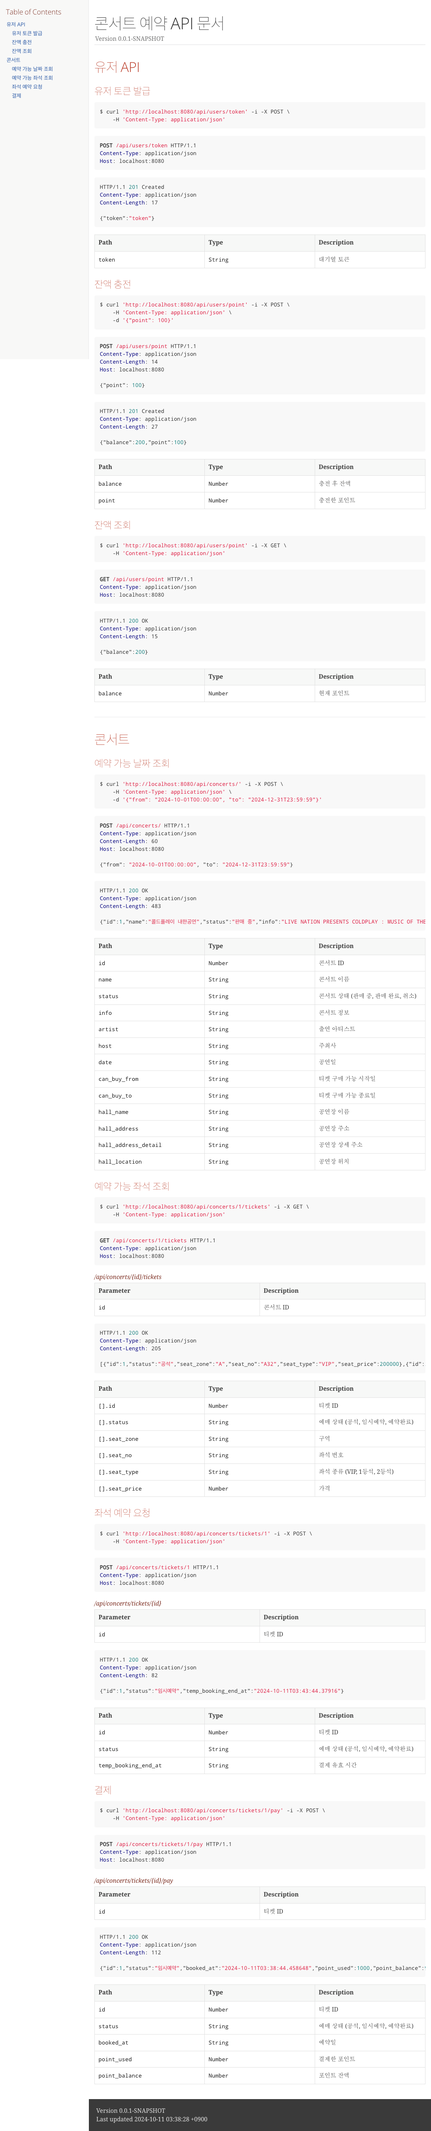
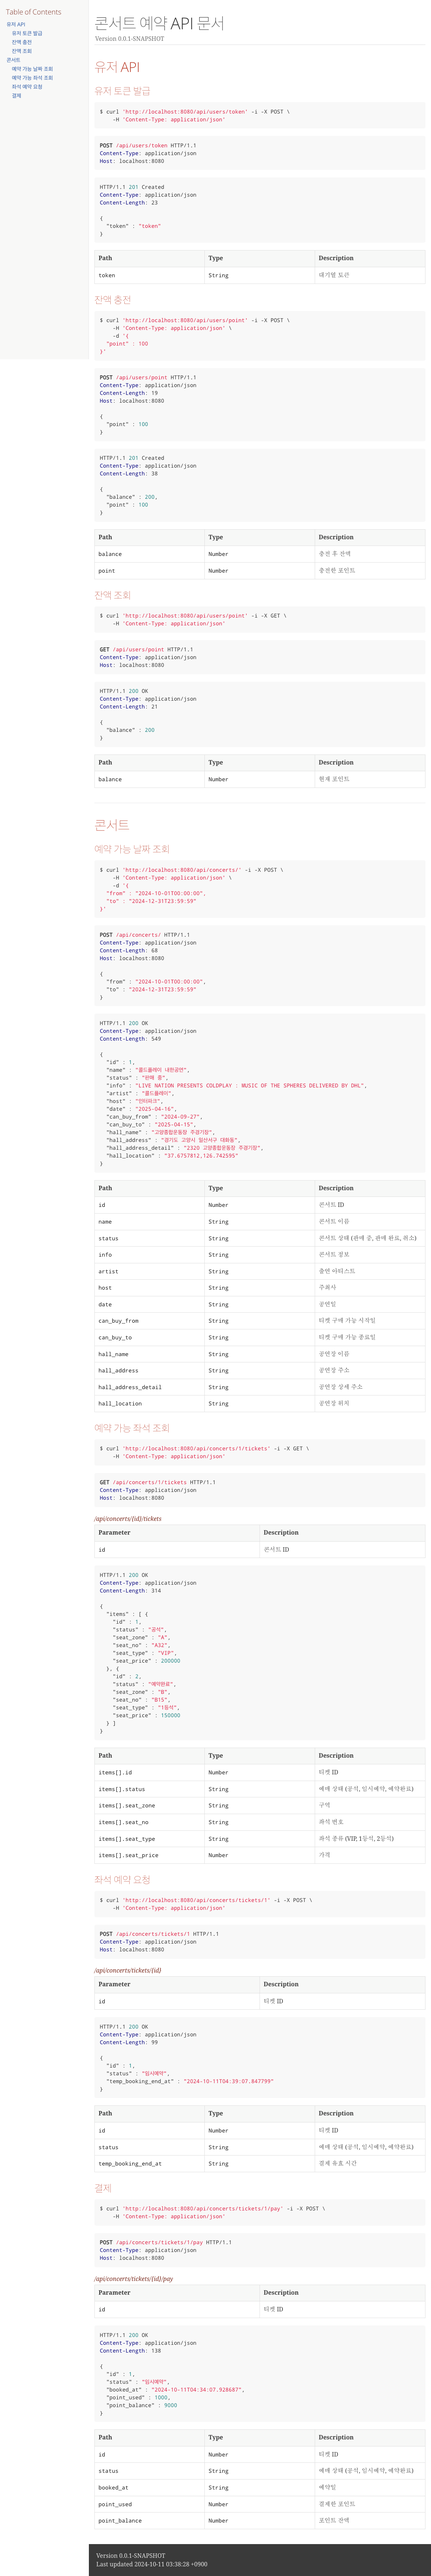
refactoring - 컨트롤러의 DTO 패키지 분리 - Rest DOCs 요청, 응답 prettier 적용

diff --git a/src/main/resources/static/docs/index.html b/src/main/resources/static/docs/index.html
@@ -487,9 +487,11 @@ Host: localhost:8080</code></pre>
 <div class="content">
 <pre class="highlightjs highlight nowrap"><code data-lang="http" class="language-http hljs">HTTP/1.1 201 Created
 Content-Type: application/json
-Content-Length: 17
+Content-Length: 23
 
-{"token":"token"}</code></pre>
+{
+  "token" : "token"
+}</code></pre>
 </div>
 </div>
 <table class="tableblock frame-all grid-all stretch">
@@ -520,26 +522,33 @@ Content-Length: 17
 <div class="content">
 <pre class="highlightjs highlight"><code data-lang="bash" class="language-bash hljs">$ curl 'http://localhost:8080/api/users/point' -i -X POST \
     -H 'Content-Type: application/json' \
-    -d '{"point": 100}'</code></pre>
+    -d '{
+  "point" : 100
+}'</code></pre>
 </div>
 </div>
 <div class="listingblock">
 <div class="content">
 <pre class="highlightjs highlight nowrap"><code data-lang="http" class="language-http hljs">POST /api/users/point HTTP/1.1
 Content-Type: application/json
-Content-Length: 14
+Content-Length: 19
 Host: localhost:8080
 
-{"point": 100}</code></pre>
+{
+  "point" : 100
+}</code></pre>
 </div>
 </div>
 <div class="listingblock">
 <div class="content">
 <pre class="highlightjs highlight nowrap"><code data-lang="http" class="language-http hljs">HTTP/1.1 201 Created
 Content-Type: application/json
-Content-Length: 27
+Content-Length: 38
 
-{"balance":200,"point":100}</code></pre>
+{
+  "balance" : 200,
+  "point" : 100
+}</code></pre>
 </div>
 </div>
 <table class="tableblock frame-all grid-all stretch">
@@ -588,9 +597,11 @@ Host: localhost:8080</code></pre>
 <div class="content">
 <pre class="highlightjs highlight nowrap"><code data-lang="http" class="language-http hljs">HTTP/1.1 200 OK
 Content-Type: application/json
-Content-Length: 15
+Content-Length: 21
 
-{"balance":200}</code></pre>
+{
+  "balance" : 200
+}</code></pre>
 </div>
 </div>
 <table class="tableblock frame-all grid-all stretch">
@@ -626,26 +637,46 @@ Content-Length: 15
 <div class="content">
 <pre class="highlightjs highlight"><code data-lang="bash" class="language-bash hljs">$ curl 'http://localhost:8080/api/concerts/' -i -X POST \
     -H 'Content-Type: application/json' \
-    -d '{"from": "2024-10-01T00:00:00", "to": "2024-12-31T23:59:59"}'</code></pre>
+    -d '{
+  "from" : "2024-10-01T00:00:00",
+  "to" : "2024-12-31T23:59:59"
+}'</code></pre>
 </div>
 </div>
 <div class="listingblock">
 <div class="content">
 <pre class="highlightjs highlight nowrap"><code data-lang="http" class="language-http hljs">POST /api/concerts/ HTTP/1.1
 Content-Type: application/json
-Content-Length: 60
+Content-Length: 68
 Host: localhost:8080
 
-{"from": "2024-10-01T00:00:00", "to": "2024-12-31T23:59:59"}</code></pre>
+{
+  "from" : "2024-10-01T00:00:00",
+  "to" : "2024-12-31T23:59:59"
+}</code></pre>
 </div>
 </div>
 <div class="listingblock">
 <div class="content">
 <pre class="highlightjs highlight nowrap"><code data-lang="http" class="language-http hljs">HTTP/1.1 200 OK
 Content-Type: application/json
-Content-Length: 483
+Content-Length: 549
 
-{"id":1,"name":"콜드플레이 내한공연","status":"판매 중","info":"LIVE NATION PRESENTS COLDPLAY : MUSIC OF THE SPHERES DELIVERED BY DHL","artist":"콜드플레이","host":"인터파크","date":"2025-04-16","can_buy_from":"2024-09-27","can_buy_to":"2025-04-15","hall_name":"고양종합운동장 주경기장","hall_address":"경기도 고양시 일산서구 대화동","hall_address_detail":"2320 고양종합운동장 주경기장","hall_location":"37.6757812,126.742595"}</code></pre>
+{
+  "id" : 1,
+  "name" : "콜드플레이 내한공연",
+  "status" : "판매 중",
+  "info" : "LIVE NATION PRESENTS COLDPLAY : MUSIC OF THE SPHERES DELIVERED BY DHL",
+  "artist" : "콜드플레이",
+  "host" : "인터파크",
+  "date" : "2025-04-16",
+  "can_buy_from" : "2024-09-27",
+  "can_buy_to" : "2025-04-15",
+  "hall_name" : "고양종합운동장 주경기장",
+  "hall_address" : "경기도 고양시 일산서구 대화동",
+  "hall_address_detail" : "2320 고양종합운동장 주경기장",
+  "hall_location" : "37.6757812,126.742595"
+}</code></pre>
 </div>
 </div>
 <table class="tableblock frame-all grid-all stretch">
@@ -768,9 +799,25 @@ Host: localhost:8080</code></pre>
 <div class="content">
 <pre class="highlightjs highlight nowrap"><code data-lang="http" class="language-http hljs">HTTP/1.1 200 OK
 Content-Type: application/json
-Content-Length: 205
+Content-Length: 314
 
-[{"id":1,"status":"공석","seat_zone":"A","seat_no":"A32","seat_type":"VIP","seat_price":200000},{"id":2,"status":"예약완료","seat_zone":"B","seat_no":"B15","seat_type":"1등석","seat_price":150000}]</code></pre>
+{
+  "items" : [ {
+    "id" : 1,
+    "status" : "공석",
+    "seat_zone" : "A",
+    "seat_no" : "A32",
+    "seat_type" : "VIP",
+    "seat_price" : 200000
+  }, {
+    "id" : 2,
+    "status" : "예약완료",
+    "seat_zone" : "B",
+    "seat_no" : "B15",
+    "seat_type" : "1등석",
+    "seat_price" : 150000
+  } ]
+}</code></pre>
 </div>
 </div>
 <table class="tableblock frame-all grid-all stretch">
@@ -788,32 +835,32 @@ Content-Length: 205
 </thead>
 <tbody>
 <tr>
-<td class="tableblock halign-left valign-top"><p class="tableblock"><code>[].id</code></p></td>
+<td class="tableblock halign-left valign-top"><p class="tableblock"><code>items[].id</code></p></td>
 <td class="tableblock halign-left valign-top"><p class="tableblock"><code>Number</code></p></td>
 <td class="tableblock halign-left valign-top"><p class="tableblock">티켓 ID</p></td>
 </tr>
 <tr>
-<td class="tableblock halign-left valign-top"><p class="tableblock"><code>[].status</code></p></td>
+<td class="tableblock halign-left valign-top"><p class="tableblock"><code>items[].status</code></p></td>
 <td class="tableblock halign-left valign-top"><p class="tableblock"><code>String</code></p></td>
 <td class="tableblock halign-left valign-top"><p class="tableblock">예매 상태 (공석, 임시예약, 예약완료)</p></td>
 </tr>
 <tr>
-<td class="tableblock halign-left valign-top"><p class="tableblock"><code>[].seat_zone</code></p></td>
+<td class="tableblock halign-left valign-top"><p class="tableblock"><code>items[].seat_zone</code></p></td>
 <td class="tableblock halign-left valign-top"><p class="tableblock"><code>String</code></p></td>
 <td class="tableblock halign-left valign-top"><p class="tableblock">구역</p></td>
 </tr>
 <tr>
-<td class="tableblock halign-left valign-top"><p class="tableblock"><code>[].seat_no</code></p></td>
+<td class="tableblock halign-left valign-top"><p class="tableblock"><code>items[].seat_no</code></p></td>
 <td class="tableblock halign-left valign-top"><p class="tableblock"><code>String</code></p></td>
 <td class="tableblock halign-left valign-top"><p class="tableblock">좌석 번호</p></td>
 </tr>
 <tr>
-<td class="tableblock halign-left valign-top"><p class="tableblock"><code>[].seat_type</code></p></td>
+<td class="tableblock halign-left valign-top"><p class="tableblock"><code>items[].seat_type</code></p></td>
 <td class="tableblock halign-left valign-top"><p class="tableblock"><code>String</code></p></td>
 <td class="tableblock halign-left valign-top"><p class="tableblock">좌석 종류 (VIP, 1등석, 2등석)</p></td>
 </tr>
 <tr>
-<td class="tableblock halign-left valign-top"><p class="tableblock"><code>[].seat_price</code></p></td>
+<td class="tableblock halign-left valign-top"><p class="tableblock"><code>items[].seat_price</code></p></td>
 <td class="tableblock halign-left valign-top"><p class="tableblock"><code>Number</code></p></td>
 <td class="tableblock halign-left valign-top"><p class="tableblock">가격</p></td>
 </tr>
@@ -858,9 +905,13 @@ Host: localhost:8080</code></pre>
 <div class="content">
 <pre class="highlightjs highlight nowrap"><code data-lang="http" class="language-http hljs">HTTP/1.1 200 OK
 Content-Type: application/json
-Content-Length: 82
+Content-Length: 99
 
-{"id":1,"status":"임시예약","temp_booking_end_at":"2024-10-11T03:43:44.37916"}</code></pre>
+{
+  "id" : 1,
+  "status" : "임시예약",
+  "temp_booking_end_at" : "2024-10-11T04:39:07.847799"
+}</code></pre>
 </div>
 </div>
 <table class="tableblock frame-all grid-all stretch">
@@ -933,9 +984,15 @@ Host: localhost:8080</code></pre>
 <div class="content">
 <pre class="highlightjs highlight nowrap"><code data-lang="http" class="language-http hljs">HTTP/1.1 200 OK
 Content-Type: application/json
-Content-Length: 112
+Content-Length: 138
 
-{"id":1,"status":"임시예약","booked_at":"2024-10-11T03:38:44.458648","point_used":1000,"point_balance":9000}</code></pre>
+{
+  "id" : 1,
+  "status" : "임시예약",
+  "booked_at" : "2024-10-11T04:34:07.928687",
+  "point_used" : 1000,
+  "point_balance" : 9000
+}</code></pre>
 </div>
 </div>
 <table class="tableblock frame-all grid-all stretch">

diff --git a/src/test/java/com/chaw/concert/interfaces/api/concert/ConcertControllerTest.java b/src/test/java/com/chaw/concert/interfaces/api/concert/ConcertControllerTest.java
@@ -19,8 +19,7 @@ import org.springframework.web.context.WebApplicationContext;
 import static org.springframework.restdocs.mockmvc.MockMvcRestDocumentation.documentationConfiguration;
 import static org.springframework.restdocs.mockmvc.RestDocumentationRequestBuilders.get;
 import static org.springframework.restdocs.mockmvc.RestDocumentationRequestBuilders.post;
-import static org.springframework.restdocs.operation.preprocess.Preprocessors.preprocessRequest;
-import static org.springframework.restdocs.operation.preprocess.Preprocessors.preprocessResponse;
+import static org.springframework.restdocs.operation.preprocess.Preprocessors.*;
 import static org.springframework.restdocs.payload.PayloadDocumentation.*;
 import static org.springframework.restdocs.request.RequestDocumentation.parameterWithName;
 import static org.springframework.restdocs.request.RequestDocumentation.pathParameters;
@@ -48,8 +47,8 @@ public class ConcertControllerTest {
     public void getConcerts() throws Exception {
         RestDocumentationResultHandler documentationHandler =
                 MockMvcRestDocumentation.document("concert/get-concerts",
-                        preprocessRequest(),
-                        preprocessResponse(),
+                        preprocessRequest(prettyPrint()),
+                        preprocessResponse(prettyPrint()),
                         requestFields(
                                 fieldWithPath("from").description("공연일 시작"),
                                 fieldWithPath("to").description("공연일 끝")
@@ -83,18 +82,18 @@ public class ConcertControllerTest {
     public void getTickets() throws Exception {
         RestDocumentationResultHandler documentationHandler =
                 MockMvcRestDocumentation.document("concert/get-tickets",
-                        preprocessRequest(),
-                        preprocessResponse(),
+                        preprocessRequest(prettyPrint()),
+                        preprocessResponse(prettyPrint()),
                         pathParameters(
                                 parameterWithName("id").description("콘서트 ID")
                         ),
                         responseFields(
-                                fieldWithPath("[].id").description("티켓 ID"),
-                                fieldWithPath("[].status").description("예매 상태 (공석, 임시예약, 예약완료)"),
-                                fieldWithPath("[].seat_zone").description("구역"),
-                                fieldWithPath("[].seat_no").description("좌석 번호"),
-                                fieldWithPath("[].seat_type").description("좌석 종류 (VIP, 1등석, 2등석)"),
-                                fieldWithPath("[].seat_price").description("가격")
+                                fieldWithPath("items[].id").description("티켓 ID"),
+                                fieldWithPath("items[].status").description("예매 상태 (공석, 임시예약, 예약완료)"),
+                                fieldWithPath("items[].seat_zone").description("구역"),
+                                fieldWithPath("items[].seat_no").description("좌석 번호"),
+                                fieldWithPath("items[].seat_type").description("좌석 종류 (VIP, 1등석, 2등석)"),
+                                fieldWithPath("items[].seat_price").description("가격")
                         )
                 );
 
@@ -108,8 +107,8 @@ public class ConcertControllerTest {
     public void tempBooking() throws Exception {
         RestDocumentationResultHandler documentationHandler =
                 MockMvcRestDocumentation.document("concert/temp-booking",
-                        preprocessRequest(),
-                        preprocessResponse(),
+                        preprocessRequest(prettyPrint()),
+                        preprocessResponse(prettyPrint()),
                         pathParameters(
                                 parameterWithName("id").description("티켓 ID")
                         ),
@@ -130,8 +129,8 @@ public class ConcertControllerTest {
     public void pay() throws Exception {
         RestDocumentationResultHandler documentationHandler =
                 MockMvcRestDocumentation.document("concert/pay",
-                        preprocessRequest(),
-                        preprocessResponse(),
+                        preprocessRequest(prettyPrint()),
+                        preprocessResponse(prettyPrint()),
                         pathParameters(
                                 parameterWithName("id").description("티켓 ID")
                         ),

diff --git a/src/test/java/com/chaw/concert/interfaces/api/user/UserControllerTest.java b/src/test/java/com/chaw/concert/interfaces/api/user/UserControllerTest.java
@@ -17,8 +17,8 @@ import org.springframework.test.web.servlet.setup.MockMvcBuilders;
 import org.springframework.web.context.WebApplicationContext;
 
 import static org.springframework.restdocs.mockmvc.MockMvcRestDocumentation.documentationConfiguration;
-import static org.springframework.restdocs.operation.preprocess.Preprocessors.preprocessRequest;
-import static org.springframework.restdocs.operation.preprocess.Preprocessors.preprocessResponse;
+import static org.springframework.restdocs.operation.preprocess.Preprocessors.*;
+import static org.springframework.restdocs.operation.preprocess.Preprocessors.prettyPrint;
 import static org.springframework.restdocs.payload.PayloadDocumentation.*;
 import static org.springframework.test.web.servlet.request.MockMvcRequestBuilders.get;
 import static org.springframework.test.web.servlet.request.MockMvcRequestBuilders.post;
@@ -46,8 +46,8 @@ public class UserControllerTest {
     public void requestToken() throws Exception {
         RestDocumentationResultHandler documentationHandler =
                 MockMvcRestDocumentation.document("user/request-token",
-                        preprocessRequest(),
-                        preprocessResponse(),
+                        preprocessRequest(prettyPrint()),
+                        preprocessResponse(prettyPrint()),
                         responseFields(
                                 fieldWithPath("token").description("대기열 토큰")
                         ));
@@ -63,8 +63,8 @@ public class UserControllerTest {
     public void chargePoint() throws Exception {
         RestDocumentationResultHandler documentationHandler =
                 MockMvcRestDocumentation.document("user/charge-point",
-                        preprocessRequest(),
-                        preprocessResponse(),
+                        preprocessRequest(prettyPrint()),
+                        preprocessResponse(prettyPrint()),
                         requestFields(
                                 fieldWithPath("point").description("충전할 포인트")
                         ),
@@ -85,8 +85,8 @@ public class UserControllerTest {
     public void getPoint() throws Exception {
         RestDocumentationResultHandler documentationHandler =
                 MockMvcRestDocumentation.document("user/get-point",
-                        preprocessRequest(),
-                        preprocessResponse(),
+                        preprocessRequest(prettyPrint()),
+                        preprocessResponse(prettyPrint()),
                         responseFields(
                                 fieldWithPath("balance").description("현재 포인트")
                         ));

diff --git a/src/main/java/com/chaw/concert/interfaces/api/concert/ConcertController.java b/src/main/java/com/chaw/concert/interfaces/api/concert/ConcertController.java
@@ -33,9 +33,9 @@ public class ConcertController {
 
     @GetMapping("/{id}/tickets")
     @ResponseStatus(HttpStatus.OK)
-    public List<GetTicketsOutput> getTickets(@PathVariable Long id) {
-        return List.of(
-                GetTicketsOutput.builder()
+    public GetTicketsOutput getTickets(@PathVariable Long id) {
+        List<GetTicketsOutput.Item> items = List.of(
+                GetTicketsOutput.Item.builder()
                         .id(1L)
                         .status("공석")
                         .seat_zone("A")
@@ -43,7 +43,7 @@ public class ConcertController {
                         .seat_type("VIP")
                         .seat_price(200000)
                         .build(),
-                GetTicketsOutput.builder()
+                GetTicketsOutput.Item.builder()
                         .id(2L)
                         .status("예약완료")
                         .seat_zone("B")
@@ -52,6 +52,10 @@ public class ConcertController {
                         .seat_price(150000)
                         .build()
         );
+
+        return GetTicketsOutput.builder()
+                .items(items)
+                .build();
     }
 
     @PostMapping("/tickets/{id}")

diff --git a/src/main/java/com/chaw/concert/interfaces/api/concert/dto/GetTicketsOutput.java b/src/main/java/com/chaw/concert/interfaces/api/concert/dto/GetTicketsOutput.java
@@ -4,14 +4,23 @@ import lombok.AllArgsConstructor;
 import lombok.Builder;
 import lombok.Data;
 
+import java.util.List;
+
 @Data
 @AllArgsConstructor
 @Builder
 public class GetTicketsOutput {
-    private Long id;
-    private String status;
-    private String seat_zone;
-    private String seat_no;
-    private String seat_type;
-    private Integer seat_price;
+    private List<Item> items;
+
+    @Data
+    @AllArgsConstructor
+    @Builder
+    public static class Item {
+        private Long id;
+        private String status;
+        private String seat_zone;
+        private String seat_no;
+        private String seat_type;
+        private Integer seat_price;
+    }
 }
